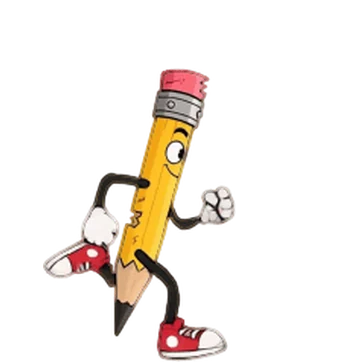
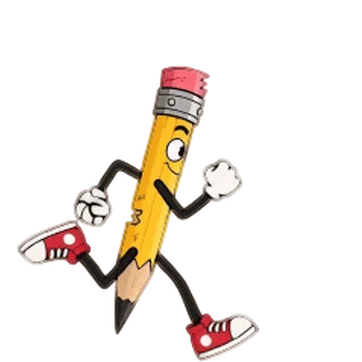
Pencil test: fluid run using every distinct pose at even timing

Changed region(s): [[0.0304, 0.1823, 0.7293, 1.0]]

diff --git a/src/client/game/entities/Player.ts b/src/client/game/entities/Player.ts
@@ -33,9 +33,9 @@ import {
 // — easier to tell which pose is which at a glance, and to swap one out
 // without recomputing a grid offset. See player/*.webp in public/assets.
 //
-// player-run-1..9 is one pencil stride (contact → passing → contact),
-// picked evenly from the 25-frame autosprite run sheet after sorting its
-// cells by pose — the sheet's grid order isn't playback order.
+// player-run-1..19 is one pencil stride (full extension → passing → full
+// extension): every distinct pose of the 25-frame autosprite run sheet,
+// sorted by pose — the sheet's grid order isn't playback order.
 export const PLAYER_TEXTURE_KEYS = [
   'player-idle',
   'player-run-1',
@@ -47,6 +47,16 @@ export const PLAYER_TEXTURE_KEYS = [
   'player-run-7',
   'player-run-8',
   'player-run-9',
+  'player-run-10',
+  'player-run-11',
+  'player-run-12',
+  'player-run-13',
+  'player-run-14',
+  'player-run-15',
+  'player-run-16',
+  'player-run-17',
+  'player-run-18',
+  'player-run-19',
   'player-jump-rise',
   'player-jump-tuck',
   'player-jump-fall',
@@ -76,6 +86,16 @@ const RUN_KEYS = [
   'player-run-7',
   'player-run-8',
   'player-run-9',
+  'player-run-10',
+  'player-run-11',
+  'player-run-12',
+  'player-run-13',
+  'player-run-14',
+  'player-run-15',
+  'player-run-16',
+  'player-run-17',
+  'player-run-18',
+  'player-run-19',
 ];
 const RISE_KEY = 'player-jump-rise';
 const TUCK_KEY = 'player-jump-tuck';
@@ -186,23 +206,21 @@ function opaqueFrameBounds(frame: Phaser.Textures.Frame): OpaqueBounds {
   opaqueBoundsCache.set(cacheKey, bounds);
   return bounds;
 }
-// Per-frame hold times (ms) for the run cycle. The nine poses are one
-// step; it hangs on the full-extension poses (run-8, run-9, run-1 — the
-// widest in the sheet) and snaps through the passing pose, so each step
-// reads as a long bound rather than a quick shuffle.
-const RUN_FRAME_DURATIONS_MS: readonly number[] = [
-  45, 26, 20, 20, 20, 22, 28, 40, 50,
-];
+// Per-frame hold time (ms) for the run cycle. Even timing across all
+// nineteen poses (~230ms a step) keeps the stride long but fluid — holding
+// the wide poses and snapping through the rest read as robotic. Frames
+// shorter than a display frame are fine: Phaser advances several per tick.
+const RUN_FRAME_MS = 12;
 // Squash on the full-extension poses, stretch through the passing pose
-// (run-5) — synced to the same nine frames via ANIMATION_UPDATE (see
-// onAnimFrameUpdate). Multiplied against the base PLAYER_SIZE scale, not
-// set absolutely.
-const RUN_SCALE_X_FACTORS: readonly number[] = [
-  1.05, 1.03, 0.99, 0.97, 0.96, 0.97, 0.99, 1.03, 1.05,
-];
-const RUN_SCALE_Y_FACTORS: readonly number[] = [
-  0.94, 0.97, 1.02, 1.05, 1.06, 1.05, 1.02, 0.97, 0.94,
-];
+// (run-9, the narrowest), following one smooth cosine over the stride
+// rather than stepping. Synced to the frames via ANIMATION_UPDATE (see
+// onAnimFrameUpdate). Multiplied against the base PLAYER_SIZE scale.
+const RUN_PASSING_INDEX = 8;
+const runSquash = RUN_KEYS.map(
+  (_, i) => -Math.cos((2 * Math.PI * (i - RUN_PASSING_INDEX)) / RUN_KEYS.length)
+);
+const RUN_SCALE_X_FACTORS: readonly number[] = runSquash.map((t) => 1 + 0.045 * t);
+const RUN_SCALE_Y_FACTORS: readonly number[] = runSquash.map((t) => 1 - 0.06 * t);
 // Same trick as the run cycle's squash/stretch above, applied to the dance
 // loop — without it the dance is just a slideshow of static poses cut on
 // every frame, since none of the source art itself has any built-in
@@ -287,10 +305,7 @@ function ensurePlayerAnims(scene: Phaser.Scene): void {
   if (!scene.anims.exists(RUN_ANIM_KEY)) {
     scene.anims.create({
       key: RUN_ANIM_KEY,
-      frames: RUN_KEYS.map((key, i) => ({
-        key,
-        duration: RUN_FRAME_DURATIONS_MS[i] ?? 45,
-      })),
+      frames: RUN_KEYS.map((key) => ({ key, duration: RUN_FRAME_MS })),
       // frameRate is ignored once every frame has an explicit duration, but
       // Phaser's AnimationConfig requires one to be set.
       frameRate: 22,
@@ -430,10 +445,10 @@ export class Player {
 
   // Drives the run cycle's and dance loop's squash/stretch bounce
   // frame-by-frame instead of a tween — a tween racing the animation's own
-  // frame timing would drift out of sync as soon as RUN_FRAME_DURATIONS_MS's
-  // asymmetric holds (or a future non-uniform dance timing) kick in. Keyed
-  // off the sprite's current texture rather than AnimationFrame.index since
-  // each pose is its own texture, not a spritesheet index.
+  // frame timing would drift out of sync as soon as any non-uniform frame
+  // timing kicks in. Keyed off the sprite's current texture rather than
+  // AnimationFrame.index since each pose is its own texture, not a
+  // spritesheet index.
   private onAnimFrameUpdate(anim: Phaser.Animations.Animation): void {
     const table = ANIM_SCALE_TABLES[anim.key];
     if (!table) {
